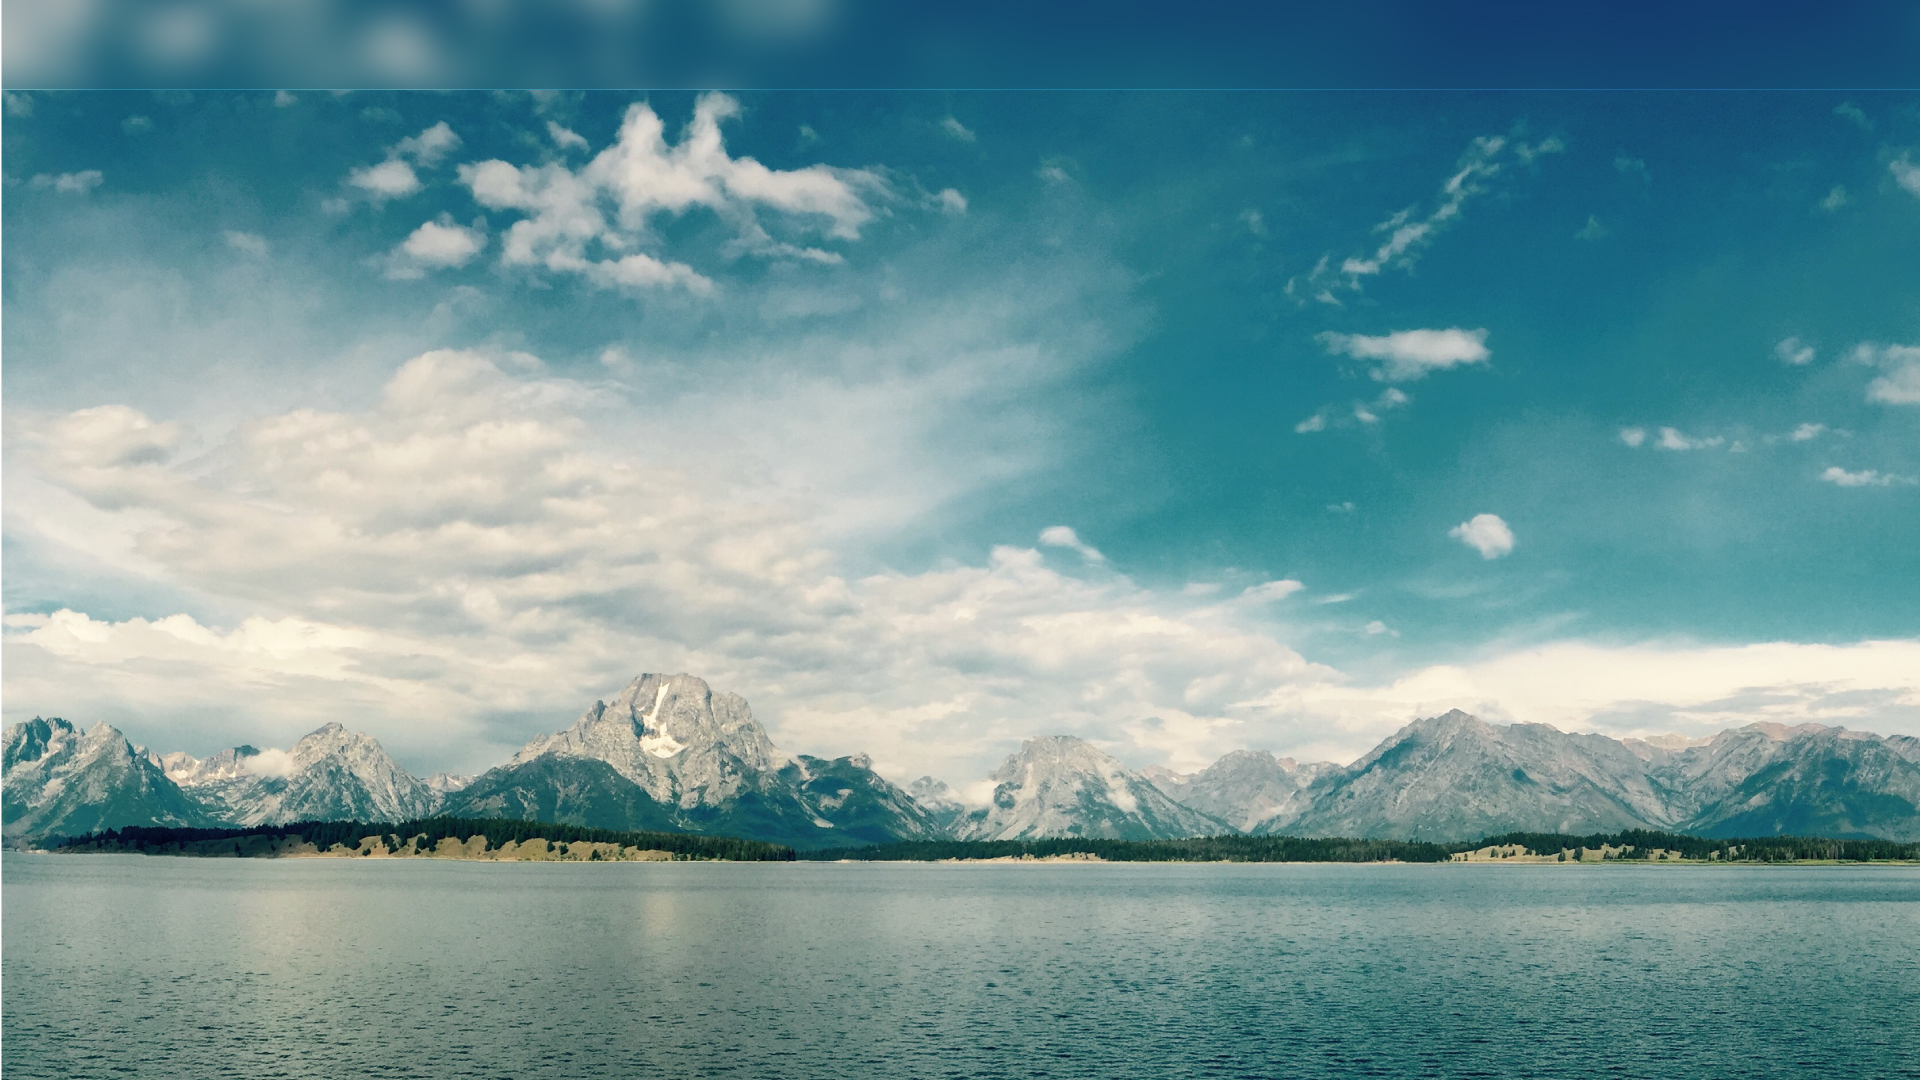
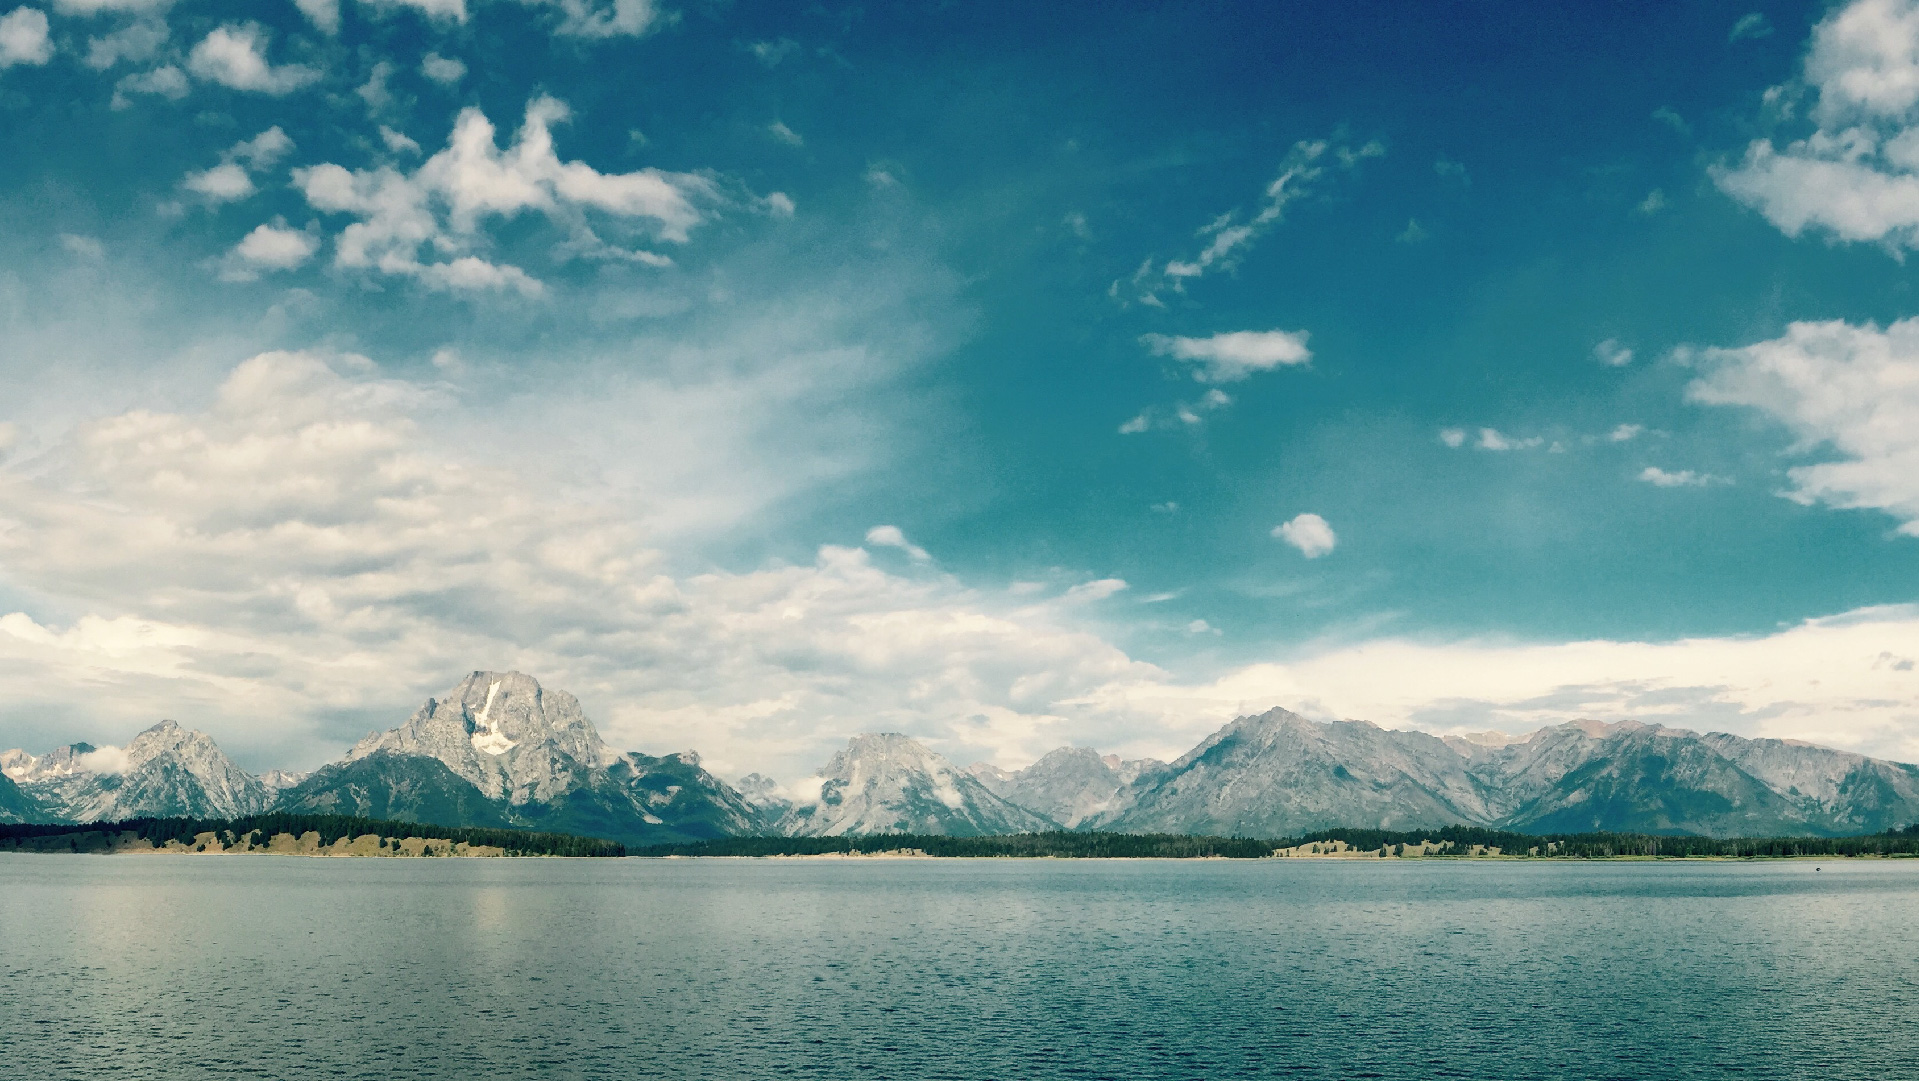
homepage slider

diff --git a/src/wise/theme/static/wise/index.html b/src/wise/theme/static/wise/index.html
@@ -12,8 +12,9 @@
     <script src="https://code.jquery.com/jquery-2.2.4.min.js" integrity="sha256-BbhdlvQf/xTY9gja0Dq3HiwQF8LaCRTXxZKRutelT44=" crossorigin="anonymous"></script>
     <link href="https://fonts.googleapis.com/css?family=Lato:100,300,400,700,900" rel="stylesheet">
     <link rel="stylesheet" href="https://maxcdn.bootstrapcdn.com/font-awesome/4.7.0/css/font-awesome.min.css">
-    <link rel="stylesheet" type="text/css" href="https://cdn.jsdelivr.net/g/jquery.slick@1.6.0(slick-theme.css+slick.css)" />
-    <script type="text/javascript" src="https://cdnjs.cloudflare.com/ajax/libs/slick-carousel/1.6.0/slick.min.js"></script>
+    <link rel="stylesheet" type="text/css" href="http://cdn.jsdelivr.net/jquery.slick/1.6.0/slick.css" />
+    <script type="text/javascript" src="http://cdn.jsdelivr.net/jquery.slick/1.6.0/slick.min.js"></script>
+    <link rel="stylesheet" href="https://cdnjs.cloudflare.com/ajax/libs/slick-carousel/1.6.0/slick-theme.min.css" />
 </head>
 
 <body class="homepage">
@@ -104,11 +105,12 @@
                 </div>
             </div>
         </div>
+        <img class="header-overlay" src="./img/header-overlay.png">
         <div class="header-bg">
-            <div class="header-overlay">
-                <img src="./img/header-overlay.png">
-            </div>
             <div class="slider-section">
+                <div class="slider-overlay" id="first-slide">
+                <img src="./img/slider-lg1.jpg">
+                </div>
                 <img class="slider-item" src="./img/slider-lg1.jpg"> </img>
                 <div class="slider-text">
                     <h1>Slider Title 1</h1>
@@ -116,15 +118,17 @@
                         <br>do eiusmod tempor incididunt ut labore et dolore magna aliqua. Ut enim ad minim veniam</p>
                 </div>
             </div>
-            <img class="slider-item" src=""> </img>
-            <img class="slider-item" src=""> </img>
-            <img class="slider-item" src=""> </img>
-            <img class="slider-item" src=""> </img>
-            <img class="slider-item" src=""> </img>
-            <img class="slider-item" src=""> </img>
-            <img class="slider-item" src=""> </img>
-            <img class="slider-item" src=""> </img>
-            <img class="slider-item" src=""> </img>
+            <div class="slider-section">
+                <div class="slider-overlay" id="second-slide">
+                    <img src="./img/slider-lg2.jpg">
+                </div>
+                <img class="slider-item" src="./img/slider-lg2.jpg"> </img>
+                <div class="slider-text">
+                    <h1>Slider Title 2</h1>
+                    <p>Lorem ipsum dolor sit amet, consectetur adipisicing elit, sed
+                        <br>do eiusmod tempor incididunt ut labore et dolore magna aliqua. Ut enim ad minim veniam</p>
+                </div>
+            </div>
         </div>
     </div>
     <div class="page-body">

diff --git a/src/wise/theme/static/wise/main.css b/src/wise/theme/static/wise/main.css
@@ -664,7 +664,7 @@ li {
 
 .header .container {
     position: relative;
-    z-index: 1;
+    z-index: 2;
 }
 
 .slider-item {
@@ -695,6 +695,7 @@ li {
     display: flex;
     justify-content: center;
     align-items: center;
+    z-index: 10;
 }
 
 .navmenu a {
@@ -771,11 +772,12 @@ li {
 }
 
 .header-overlay {
-    position: absolute;
-    bottom: 0px;
-    height: 78px;
+     position: absolute;
+    bottom: -28px;
+    height: 115px;
     max-width: 1200px;
     right: 0;
+    z-index: 1;
 }
 
 .header-logos img:first-of-type {
@@ -993,4 +995,41 @@ padding: 1rem;
     float: left;
     padding: 1rem;
     padding-top: 2rem;
+}
+
+.slider-overlay {
+    overflow: hidden;
+    width: 100%;
+    height: 8%;
+    display: block;
+    z-index: 1;
+    position: absolute;
+    -webkit-filter: blur(4px);
+    top: -2px;
+    left: 0;
+        background-size: cover;
+}
+
+
+
+.slider-section {
+    position: relative;
+}
+
+.slick-slider {
+    position: absolute!important;
+}
+
+.slick-prev {
+left: 10px!important;
+z-index: 1;
+}
+
+.slick-next {
+    right: 10px!important;
+}
+
+
+.slick-list {
+        height: 100%;
 }

diff --git a/src/wise/theme/static/wise/main.js b/src/wise/theme/static/wise/main.js
@@ -1,0 +1,12 @@
+$(document).ready(function(){
+
+$('.header-bg').slick({
+    arrows: true,
+  infinite: true,
+  speed: 300,
+  slidesToShow: 1,
+  adaptiveHeight: false
+});
+
+
+})
